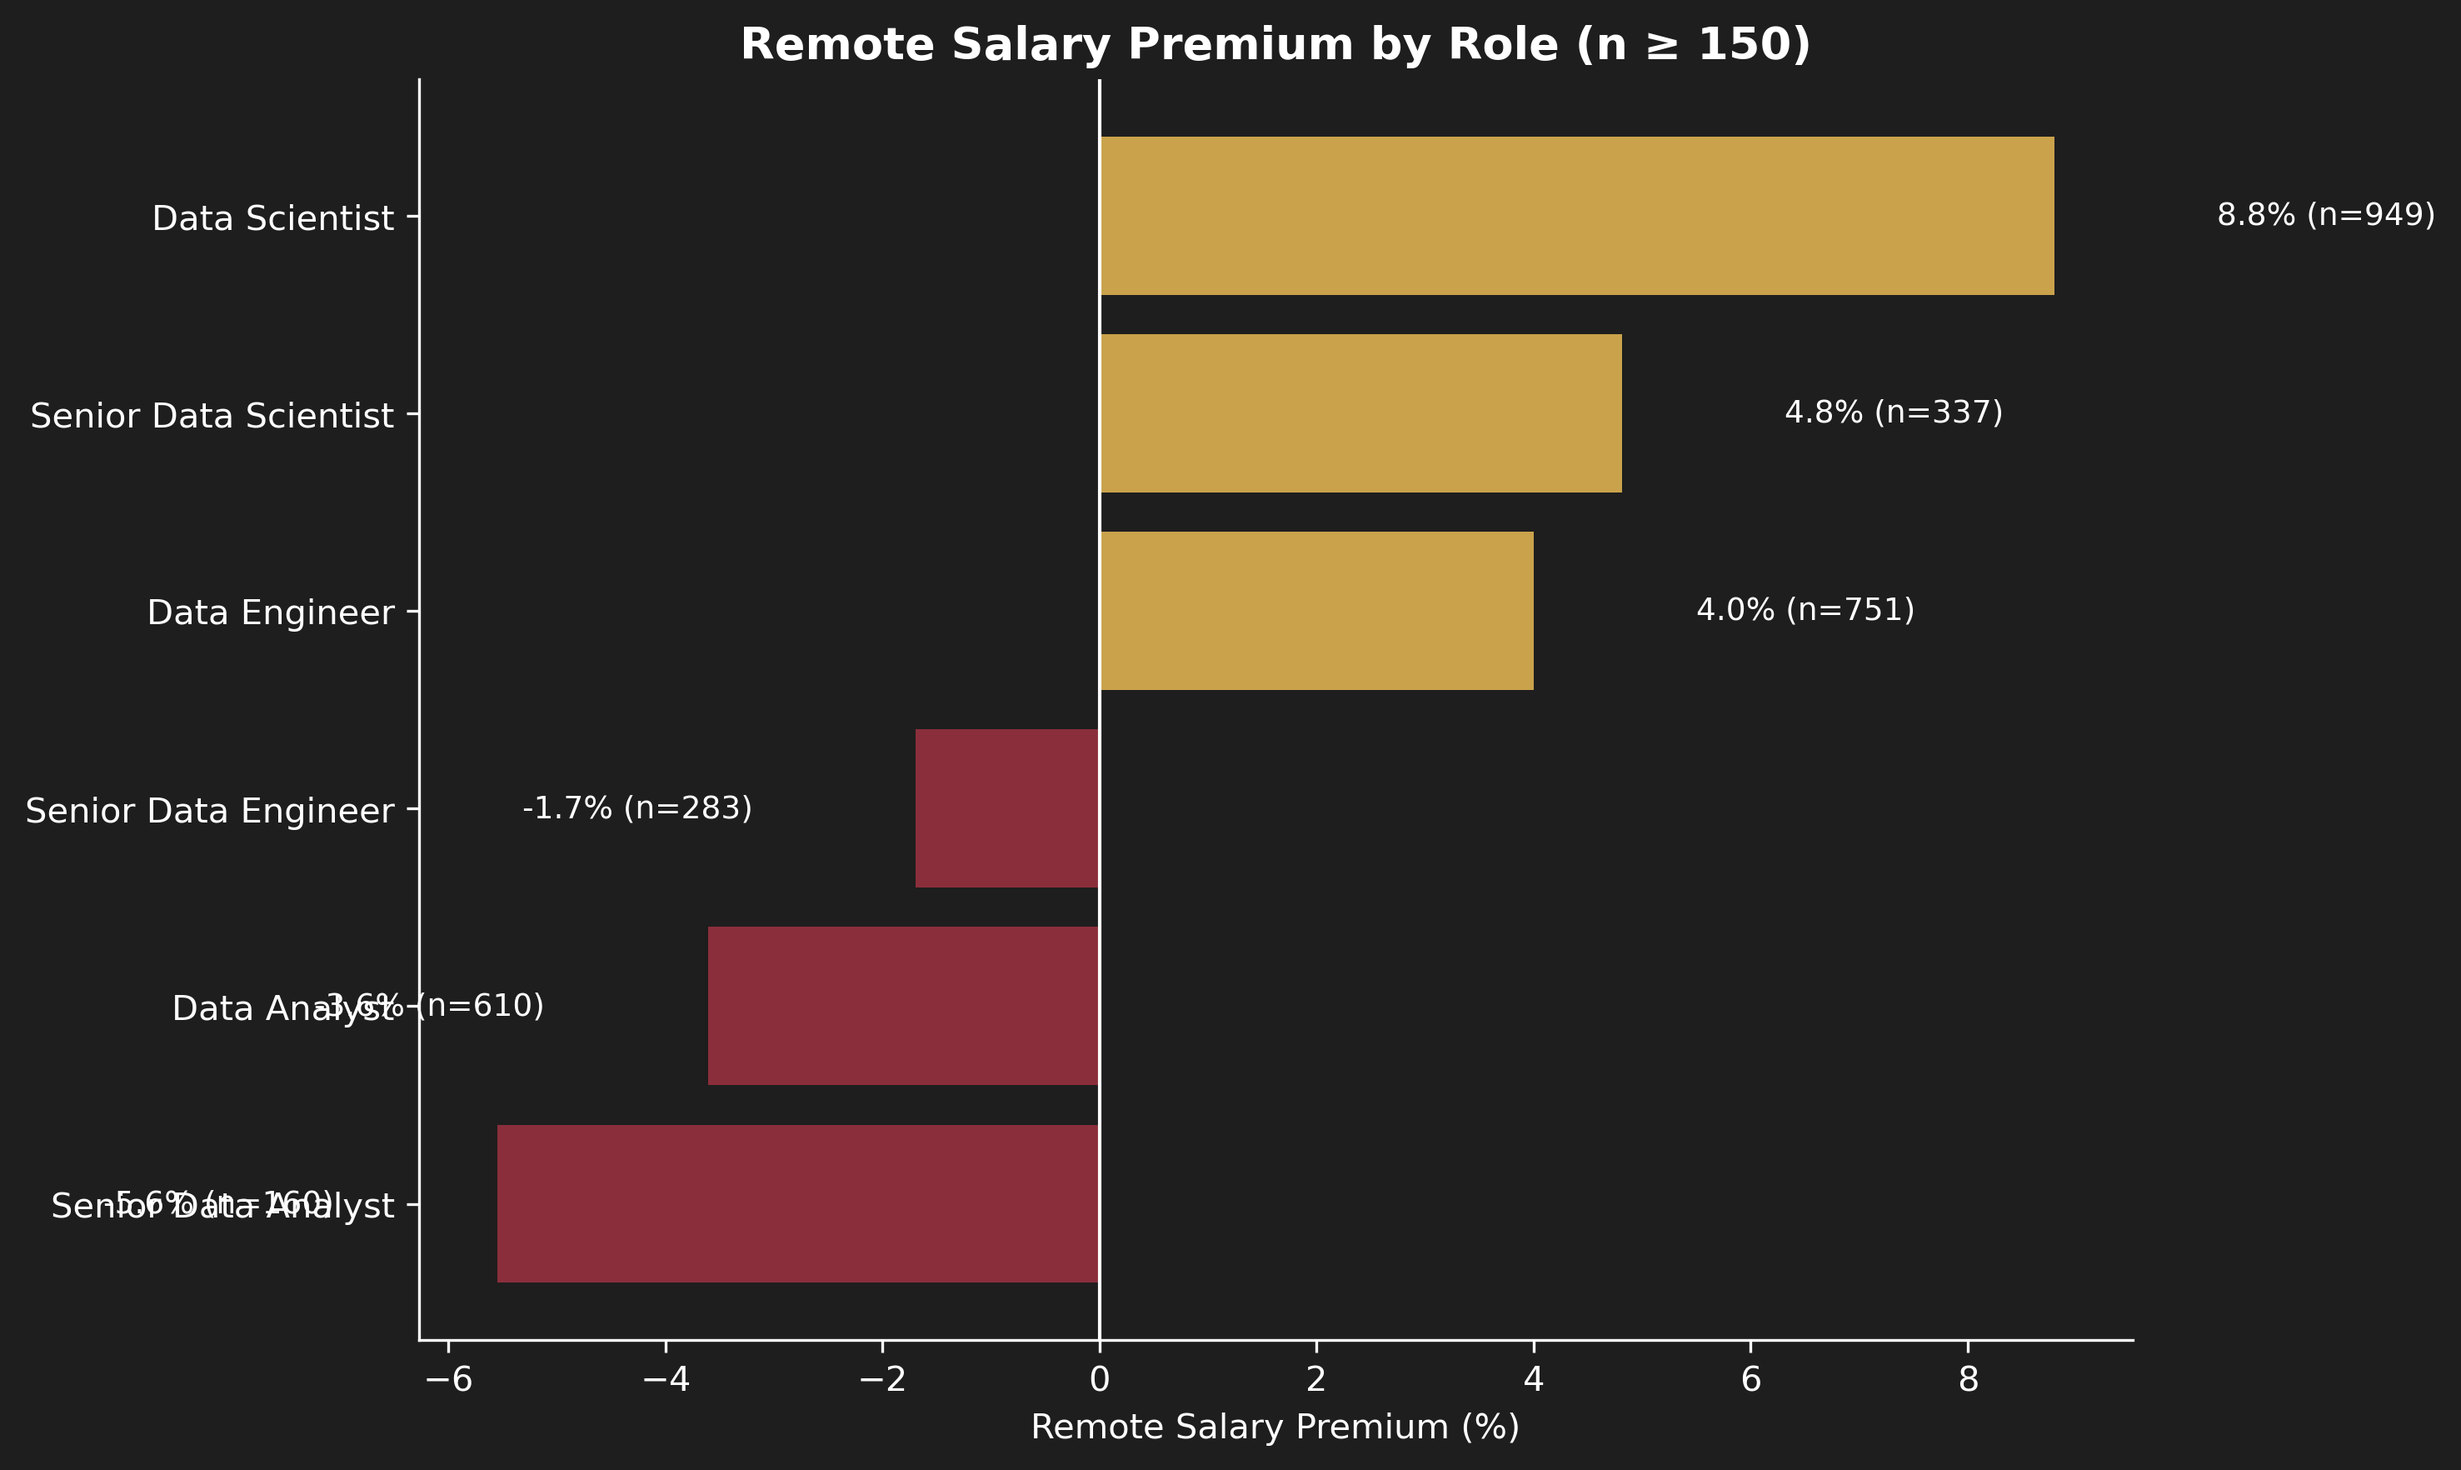
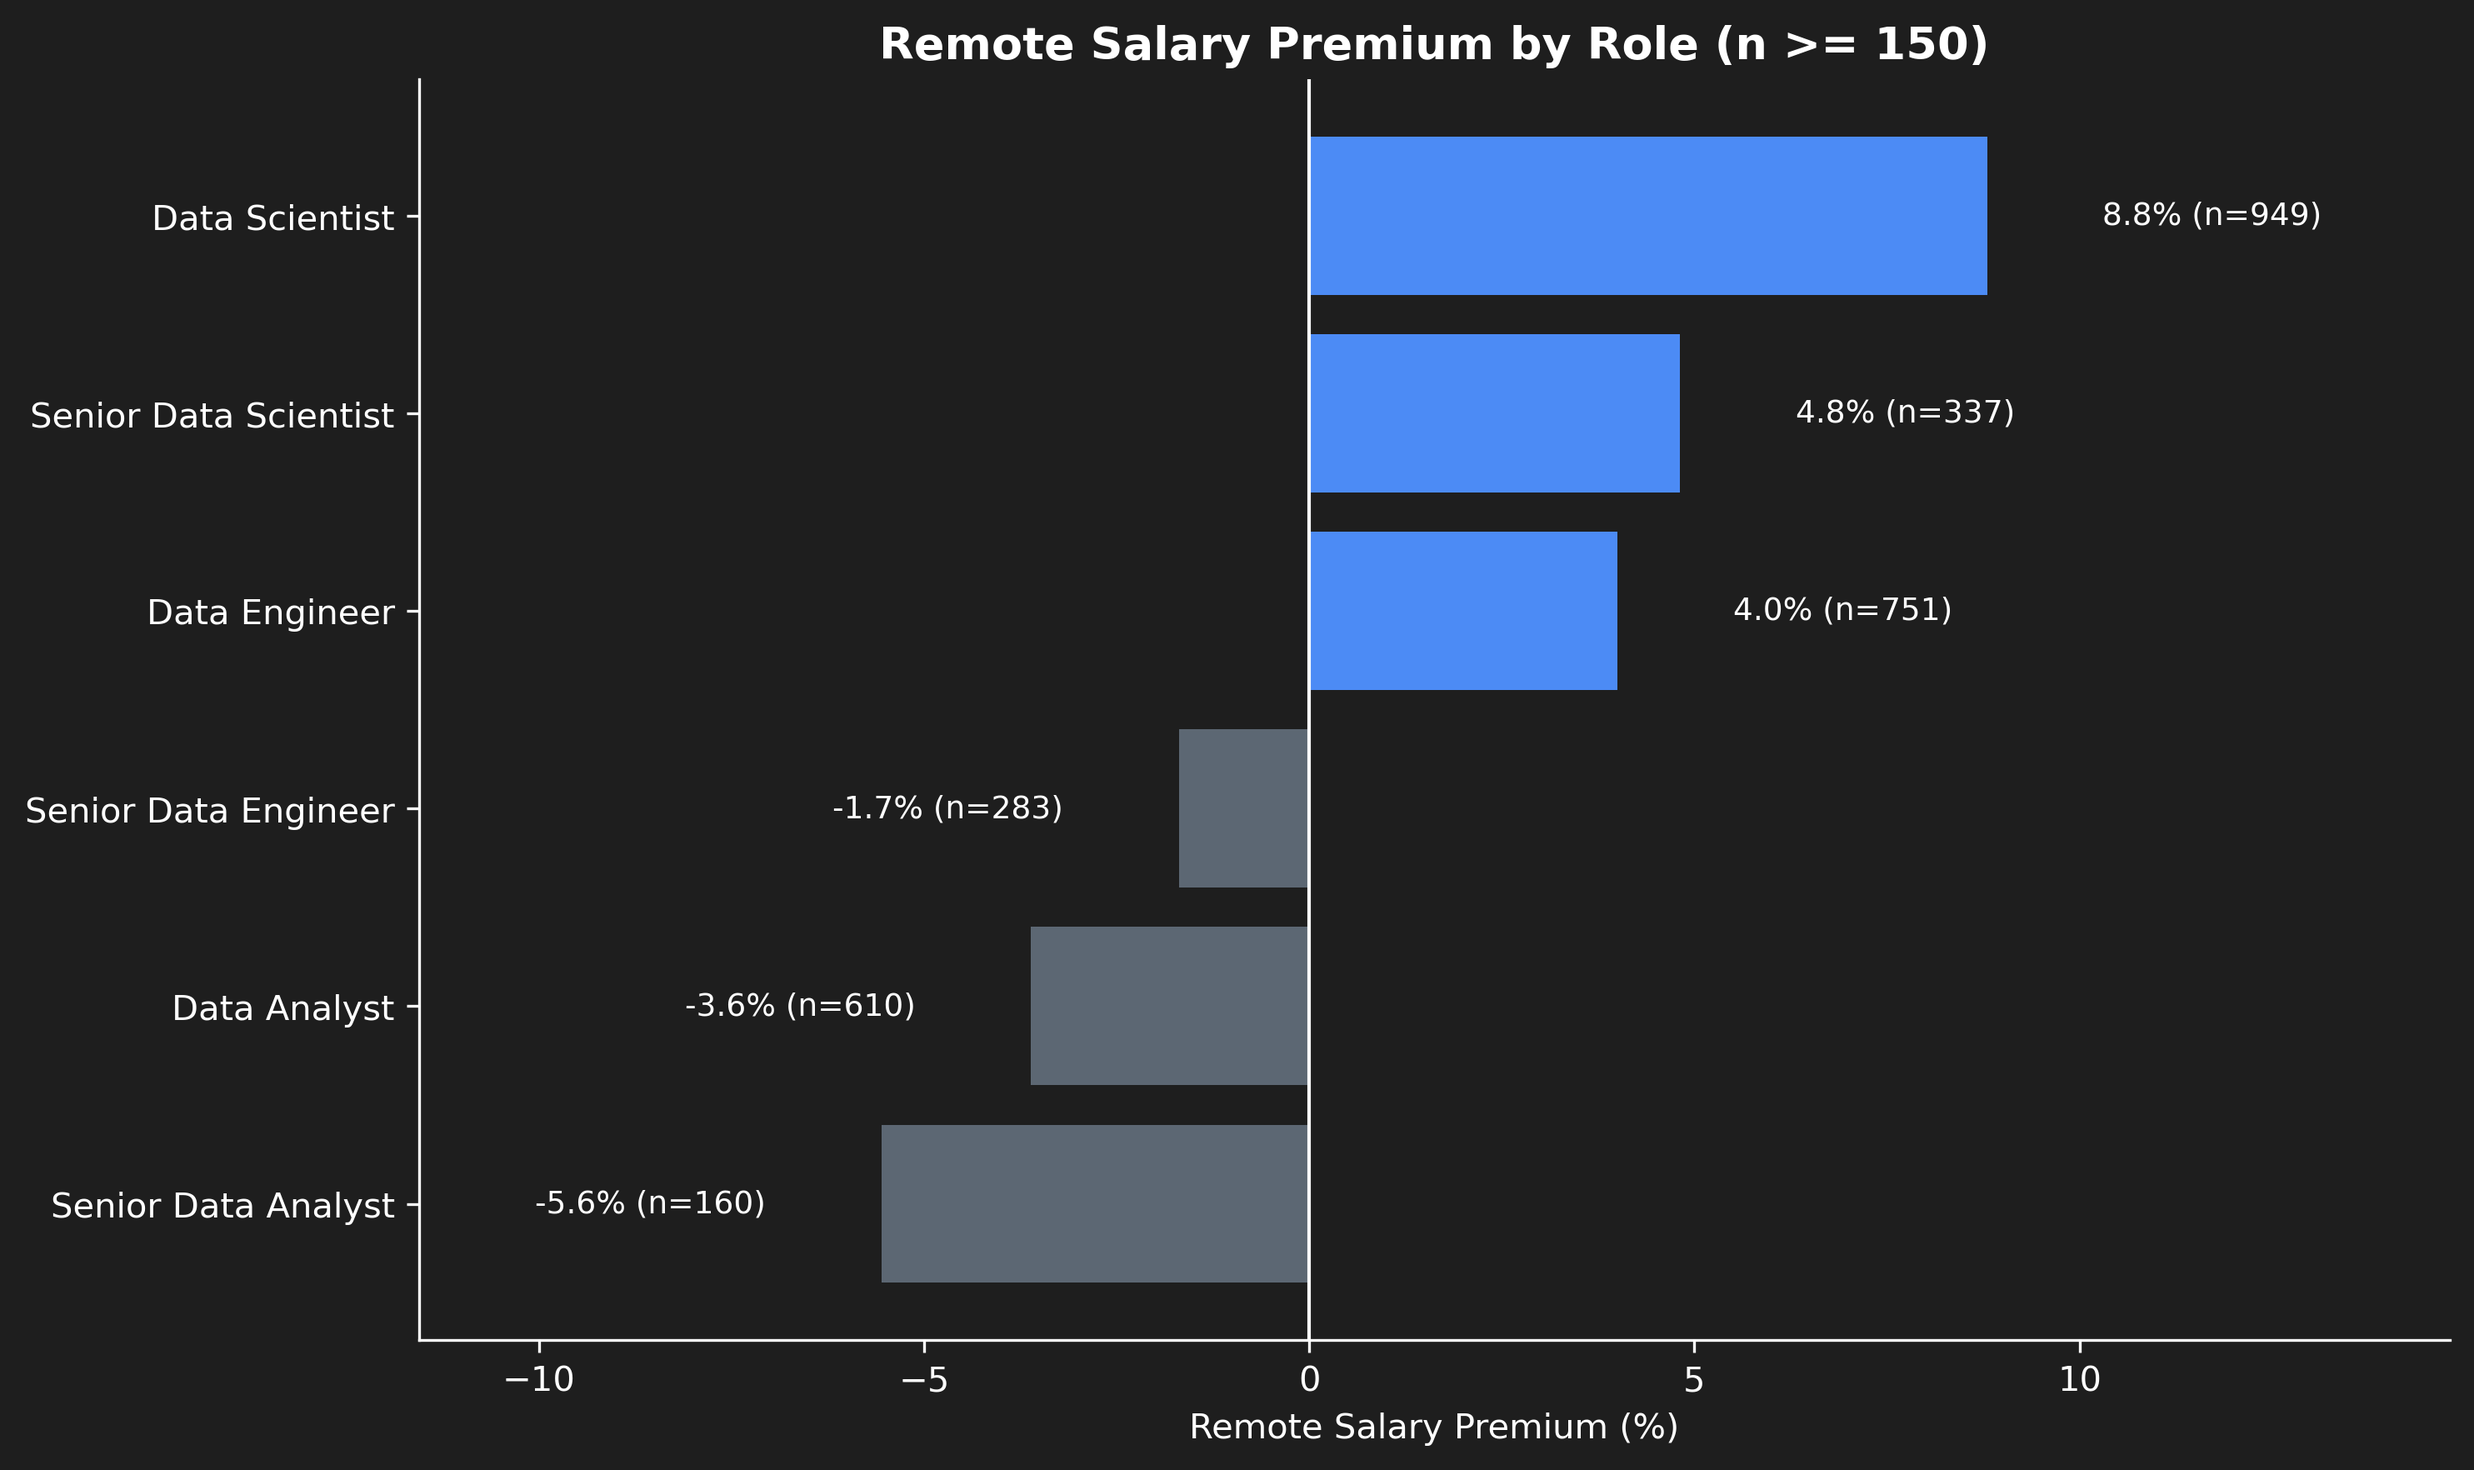
4th update

diff --git a/README.md b/README.md
@@ -1,5 +1,20 @@
 # Remote Data Careers Pipeline
 
+## Table of Contents
+
+1. [Introduction](#introduction)
+2. [Setup](#setup)
+3. [Data Preparation & Cleanup](#data-preparation--cleanup)
+4. [Remote Job Landscape](#remote-job-landscape)
+5. [Remote Salary Premium](#remote-salary-premium)
+6. [Top Skills for Remote Roles](#top-skills-for-remote-roles)
+7. [Beyond the US](#beyond-the-us)
+8. [Conclusion](#conclusion)
+9. [Tools Used](#tools-used)
+10. [What I Learned](#what-i-learned)
+
+---
+
 ## Introduction
 
 I built this project using a 2023 dataset of data job postings collected by Luke Barousse. The data skews heavily toward the US, but I wanted to see what it could still tell us about remote work, where skills tend to matter more than geography, and where a US-centric dataset can still be genuinely useful to someone job-hunting anywhere else.
@@ -18,6 +33,23 @@ I chose to center this project on remote work specifically because it's the one 
 
 Data source: [Luke Barousse's Data Nerd Skills dataset](lien)
 Full code and notebooks: [lien vers ton repo]
+
+---
+
+## Setup
+
+To reproduce this project locally:
+
+```bash
+git clone [lien vers ton repo]
+cd PYTHON_DATA_PROJECT
+conda env create -f environment.yml
+conda activate python_data_project
+```
+
+Then open any notebook in the `notebooks/` folder using VS Code or Jupyter.
+
+
 
 ---
 
@@ -254,7 +286,7 @@ bg_color = '#1e1e1e'
 fig.patch.set_facecolor(bg_color)
 ax.set_facecolor(bg_color)
 
-colors = ['#8b2e3c' if val < 0 else '#c9a24b' for val in data['premium_pct']]
+colors = ['#5c6773' if val < 0 else '#4c8bf5' for val in data['premium_pct']]
 
 ax.barh(data['job_title_short'], data['premium_pct'], color=colors)
 ax.axvline(0, color='white', linewidth=1)
@@ -271,6 +303,7 @@ ax.tick_params(colors='white')
 ax.grid(False)
 ax.spines[['top', 'right']].set_visible(False)
 ax.spines[['left', 'bottom']].set_color('white')
+ax.set_xlim(data['premium_pct'].min() - 6, data['premium_pct'].max() + 6)
 
 plt.tight_layout()
 plt.savefig('../images/remote_salary_premium_by_role.png', dpi=300, bbox_inches='tight', facecolor=bg_color)
